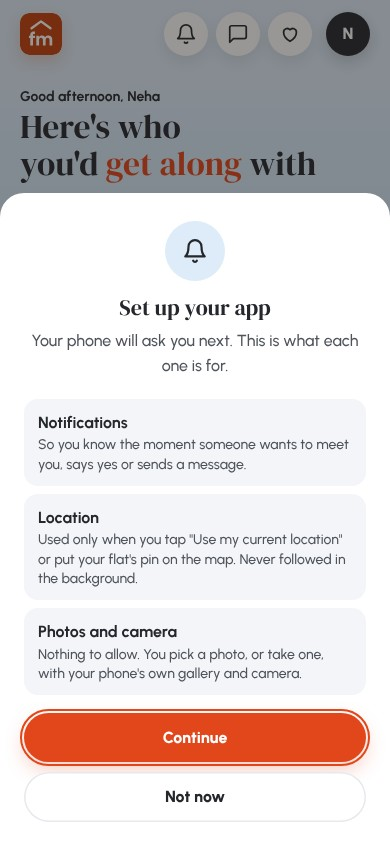
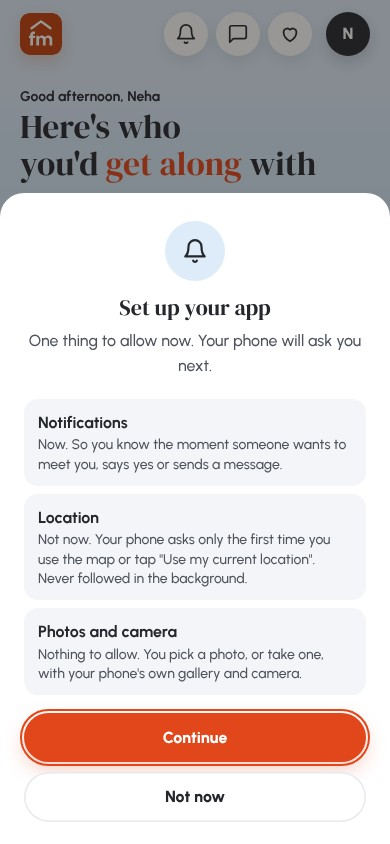
Permissions: way B, Kamal's choice: at first open only notifications are asked; location when the map is first used
Two ways were put to Kamal by King on 22 Nov; he chose the second. So the first-open sheet says what is asked now (notifications), what later (location, the first time the map or "Use my current location" is used, as the app already did) and what never (photos and the camera), and Continue brings up Android's box for notifications only. The Android side no longer has a setup message: it keeps only "Take a photo" in the photo chooser. p36 holds it.

Claude-Session: https://claude.ai/code/session_018BSL97VUyQwpm5qenYsiH6

Changed region(s): [[0.0923, 0.6161, 0.8923, 0.7085], [0.0615, 0.4005, 0.9231, 0.4621], [0.0923, 0.5237, 0.8923, 0.5545]]

diff --git a/flatmates/tests/demo/p36.test.js b/flatmates/tests/demo/p36.test.js
@@ -1,7 +1,7 @@
 // The Android app's first-open step (Kamal, 22 Nov: "Can we build that app automaticaly takes the permission of camera,
-// location and gallery and anything else that is important"). No app can take a permission by itself, so the app asks
-// early, once, and says first what each is for: one sheet, then Android's own boxes (notifications, then location).
-// Photos and the camera need no permission. Demo mode, port 8765, 390 wide; the Android wrapper is stood in for.
+// location and gallery and anything else that is important"). No app can take a permission by itself. Of the two ways
+// put to him Kamal chose the second: at first open ask only for notifications; location the first time the map is used,
+// as before; no camera or gallery permission at all. Demo mode, port 8765, 390 wide; the Android wrapper is stood in for.
 const { chromium } = require('playwright');
 const fs = require('fs'), path = require('path');
 const O = process.argv[2], ok = (c, m) => console.log((c ? 'PASS ' : 'FAIL ') + m), errs = [], U = 'http://localhost:8765/';
@@ -10,11 +10,11 @@ const now = Date.now();
 const seeker = { user:{ adultAt:'2026-11-01T00:00:00.000Z', phone:'9811111111', name:'Neha', role:'seeker', gender:'female', occupation:{ type:'working', what:'Designer' } },
   account:'9811111111', onboarded:{ seeker:true }, giftSeen:true, attrClaimed:true, vibeCardSeen:true, vibe, prefs:{ city:'Bengaluru', areas:[] },
   notified:{}, demoInvites:'done', demoTribeAt:'done', credits:5, giftGiven:true, profilePromoHidden: now + 9e9, avatarAsked:true };
-// The wrapper: it keeps what the page sends, answers "hello" with its status, and on "setup" (or "permission") gives what
-// the person would give (st.say) and answers with the new status, as MainActivity does after Android's boxes.
+// The wrapper: it keeps what the page sends, answers "hello" with its status, and on "permission" gives what the person
+// would give (st.say) and answers with the new status, as MainActivity does after Android's box.
 const wrapper = st => { window.__sent = []; window.FlatmatesNative = { postMessage(s){ const m = JSON.parse(s); if(m.type !== 'bars') window.__sent.push(m.type);   // (the strip's colour, p26, is not this suite's)
-  if(m.type === 'setup'){ st.granted = st.granted || st.say; st.location = st.location || st.say; }
-  if(['hello', 'setup', 'permission'].includes(m.type)) setTimeout(() => this.onmessage && this.onmessage({ data: JSON.stringify(Object.assign({ type:'status', granted: st.granted }, st.old ? {} : { location: st.location, setup: true })) }), 30); } }; };
+  if(m.type === 'permission') st.granted = st.granted || st.say;
+  if(['hello', 'permission'].includes(m.type)) setTimeout(() => this.onmessage && this.onmessage({ data: JSON.stringify({ type:'status', granted: st.granted }) }), 30); } }; };
 async function open(b, st, state, hash){
   const ctx = await b.newContext({ viewport:{ width:390, height:844 } });
   if(st) await ctx.addInitScript(wrapper, st);
@@ -23,52 +23,47 @@ async function open(b, st, state, hash){
   await p.goto(U + '#' + (hash || 'discover')); await p.waitForFunction(() => document.querySelector('#dlgSetup') && document.querySelector('#dlgSetup').open, null, { timeout: 4500 }).catch(() => {});
   await p.waitForTimeout(300); return { ctx, p };
 }
-const sheet = p => p.evaluate(() => ({ open: $('dlgSetup').open, title: $('suTitle').textContent, rows: [...document.querySelectorAll('.su-list li')].filter(x => !x.hidden).map(x => x.querySelector('b').textContent).join(),
+const sheet = p => p.evaluate(() => ({ open: $('dlgSetup').open, title: $('suTitle').textContent, rows: [...document.querySelectorAll('.su-list li')].map(x => x.querySelector('b').textContent + ': ' + x.querySelector('small').textContent.split('.')[0]).join(' | '),
   words: $('dlgSetup').textContent.replace(/\s+/g, ' '), btns: [...$('dlgSetup').querySelectorAll('button')].map(x => x.textContent).join(), sent: (window.__sent || []).join(), asked: !!localStorage.getItem('fm_setup_asked'),
   other: [...document.querySelectorAll('dialog[open]')].map(d => d.id).join() }));
 
 (async () => {
   const b = await chromium.launch();
-  // nothing given yet: the sheet, once someone signed in is on a main screen
-  let { ctx, p } = await open(b, { granted:false, location:false, say:true }, seeker);
+  // notifications not allowed yet: the sheet, once someone signed in is on a main screen
+  let { ctx, p } = await open(b, { granted:false, say:true }, seeker);
   let s = await sheet(p);
-  ok(s.open && s.title === 'Set up your app' && s.rows === 'Notifications,Location,Photos and camera' && s.btns === 'Continue,Not now' && s.other === 'dlgSetup', 'in the Android app, signed in, nothing allowed yet: one sheet names notifications, location, and photos and camera: ' + JSON.stringify({ open: s.open, rows: s.rows, btns: s.btns, other: s.other }));
-  ok(/Your phone will ask you next/.test(s.words) && /only when you tap/.test(s.words) && /Never followed in the background/.test(s.words) && /Nothing to allow/.test(s.words) && !/automatic/i.test(s.words),
-    'it says the phone asks next, that location is read only on a tap and never in the background, and that photos and the camera need nothing');
+  ok(s.open && s.title === 'Set up your app' && s.rows === 'Notifications: Now | Location: Not now | Photos and camera: Nothing to allow' && s.btns === 'Continue,Not now' && s.other === 'dlgSetup',
+    'in the Android app, signed in, notifications off: one sheet says what is asked now (notifications), what later (location) and what never (photos and camera): ' + JSON.stringify({ open: s.open, rows: s.rows, btns: s.btns, other: s.other }));
+  ok(/One thing to allow now/.test(s.words) && /Your phone will ask you next/.test(s.words) && /only the first time you use the map or tap "Use my current location"/.test(s.words) && /Never followed in the background/.test(s.words) && !/automatic/i.test(s.words),
+    'it says the phone asks next, that location is asked only the first time the map is used and never followed in the background');
   ok(s.sent === 'hello' && !s.asked, 'nothing has been asked of Android yet: the page has only said hello');
   await p.screenshot({ path: O + '/p36-setup.png' });
   await p.click('#suAllow'); await p.waitForTimeout(400);
-  s = await sheet(p); const st1 = await p.evaluate(() => ({ on: Notify.nativeOn, loc: Notify.loc }));
-  ok(!s.open && /^hello,setup/.test(s.sent) && s.asked && st1.on === true && st1.loc === true, 'Continue closes the sheet and hands over to Android ("setup"); the answer comes back as the new status: ' + s.sent + ' ' + JSON.stringify(st1));
+  s = await sheet(p); const st1 = await p.evaluate(() => Notify.nativeOn);
+  ok(!s.open && s.sent === 'hello,permission' && s.asked && st1 === true, 'Continue closes the sheet and asks Android for notifications only ("permission", the same ask as the card\'s); the answer comes back as the new status: ' + s.sent + ' ' + st1);
   await p.reload(); await p.waitForTimeout(2500);
   ok(!(await sheet(p)).open, 'it is asked once per phone: not again on the next open');
   await ctx.close();
-  // Not now: nothing is asked of Android, and each permission waits for the moment it is needed
-  ({ ctx, p } = await open(b, { granted:false, location:false, say:true }, seeker));
+  // Not now: nothing is asked of Android, and the card still offers notifications where it did
+  ({ ctx, p } = await open(b, { granted:false, say:true }, seeker));
   await p.click('#suLater'); await p.waitForTimeout(300); s = await sheet(p);
   const card = await p.evaluate(async () => { location.hash = '#requests'; await new Promise(r => setTimeout(r, 1200)); return { ask: !!document.querySelector('.notif-ask [data-notify-on]'), on: Notify.on() }; });
   ok(!s.open && s.sent === 'hello' && s.asked, '"Not now" closes it and asks Android nothing');
-  ok(card.ask || card.on === false, 'after "Not now" the "Stay in the loop" card still offers notifications where it did before: ' + JSON.stringify(card));
+  ok(card.ask && card.on === false, 'after "Not now" the "Stay in the loop" card still offers notifications where it did before: ' + JSON.stringify(card));
   await p.reload(); await p.waitForTimeout(2500);
   ok(!(await sheet(p)).open, '"Not now" is remembered too');
   await ctx.close();
-  // only what is missing is named; nothing missing, no sheet
-  ({ ctx, p } = await open(b, { granted:true, location:false, say:true }, seeker)); s = await sheet(p);
-  ok(s.open && s.rows === 'Location,Photos and camera', 'notifications already allowed: only location is named (with the photos line): ' + s.rows);
+  // nothing to ask, no sheet
+  ({ ctx, p } = await open(b, { granted:true, say:true }, seeker)); s = await sheet(p);
+  ok(!s.open && s.asked && s.sent === 'hello', 'notifications already allowed: no sheet, and it is not looked at again');
   await ctx.close();
-  ({ ctx, p } = await open(b, { granted:true, location:true, say:true }, seeker)); s = await sheet(p);
-  ok(!s.open && s.asked && s.sent === 'hello', 'everything already allowed: no sheet, and it is not looked at again');
-  await ctx.close();
-  // not on an older app, not before sign-in, not on the website, not on top of another sheet
-  ({ ctx, p } = await open(b, { granted:false, old:true }, seeker)); s = await sheet(p);
-  ok(!s.open && !s.asked, 'an app from before this build (its status does not say "setup") is not shown the sheet');
-  await ctx.close();
-  ({ ctx, p } = await open(b, { granted:false, location:false, say:true }, null, '')); s = await sheet(p);
+  // not before sign-in, not on the website, not on top of another sheet
+  ({ ctx, p } = await open(b, { granted:false, say:true }, null, '')); s = await sheet(p);
   ok(!s.open && !s.asked, 'before sign-in: no sheet');
   await ctx.close();
   ({ ctx, p } = await open(b, null, seeker)); s = await sheet(p);
   ok(!s.open && !s.asked && s.sent === '', 'on the website (no Android app around it): no sheet');
-  const over = await p.evaluate(() => { window.FlatmatesNative = { postMessage(){} }; Notify.canSetup = true; Notify.nativeOn = false; Notify.loc = false; $('dlgHelp').showModal(); setupAsk(); const under = $('dlgSetup').open;
+  const over = await p.evaluate(() => { window.FlatmatesNative = { postMessage(){} }; Notify.nativeOn = false; $('dlgHelp').showModal(); setupAsk(); const under = $('dlgSetup').open;
     $('dlgHelp').close(); setupAsk(); return { under, after: $('dlgSetup').open }; });
   ok(!over.under && over.after, 'it never opens on top of another sheet; it comes on the next round instead: ' + JSON.stringify(over));
   await ctx.close();
@@ -76,10 +71,10 @@ const sheet = p => p.evaluate(() => ({ open: $('dlgSetup').open, title: $('suTit
   const A = path.join(__dirname, '../../android/app/src/main'), java = fs.readFileSync(path.join(A, 'java/com/findmeflatmate/app/MainActivity.java'), 'utf8'), man = fs.readFileSync(path.join(A, 'AndroidManifest.xml'), 'utf8'), paths = fs.readFileSync(path.join(A, 'res/xml/share_paths.xml'), 'utf8');
   const perms = (man.match(/uses-permission android:name="([^"]+)"/g) || []).map(x => x.replace(/.*permission\./, '').replace('"', '')).sort().join();
   ok(perms === 'ACCESS_COARSE_LOCATION,ACCESS_FINE_LOCATION,INTERNET,POST_NOTIFICATIONS', 'the app declares internet, notifications and location, and nothing else (no camera, no storage, no contacts): ' + perms);
-  const setup = java.slice(java.indexOf('private void askSetupPermissions()'), java.indexOf('private boolean locationAllowed()'));
-  ok(/case "setup":\s*askSetupPermissions\(\);/.test(java) && (setup.match(/Manifest\.permission\.\w+/g) || []).sort().join() === 'Manifest.permission.ACCESS_COARSE_LOCATION,Manifest.permission.ACCESS_FINE_LOCATION,Manifest.permission.POST_NOTIFICATIONS,Manifest.permission.POST_NOTIFICATIONS'
-    && /requestPermissions\(ask\.toArray\(new String\[0\]\), ASK_SETUP\)/.test(setup) && /requestCode == ASK_NOTIFICATIONS \|\| requestCode == ASK_SETUP\) sendStatus\(\)/.test(java) && /\\"location\\":" \+ locationAllowed\(\)/.test(java) && /\\"setup\\":true/.test(java),
-    '"setup" asks Android for notifications and location only, only those not given yet, and answers the page with what was given');
+  const asks = java.split('requestPermissions(').slice(1).map(x => (x.slice(0, 220).match(/Manifest\.permission\.\w+/g) || []).map(y => y.replace('Manifest.permission.', '')).join('+'));
+  const geo = java.slice(java.indexOf('public void onGeolocationPermissionsShowPrompt'), java.indexOf('public boolean onShowFileChooser'));
+  ok(asks.join() === 'ACCESS_FINE_LOCATION+ACCESS_COARSE_LOCATION,POST_NOTIFICATIONS' && /requestPermissions\(/.test(geo) && !/case "setup"/.test(java) && !/CAMERA/.test(java.replace(/cameraIntent|cameraShot|cameraFile|"camera"|camera app|cache\/camera/g, '')),
+    'Android is asked for two things only, each in its own place: location from the map\'s own prompt (the first time it is used), notifications from the page\'s ask; nothing asks for the camera: ' + asks.join(' | '));
   ok(/MediaStore\.ACTION_IMAGE_CAPTURE/.test(java) && /EXTRA_INITIAL_INTENTS, new Intent\[\] \{ shot \}/.test(java) && /new File\(getCacheDir\(\), "camera"\)/.test(java) && /<cache-path name="camera" path="camera\/" \/>/.test(paths)
     && /android\.media\.action\.IMAGE_CAPTURE/.test(man) && /cameraFile\.length\(\) > 0/.test(java),
     '"Take a photo" is in the photo chooser beside the gallery: the phone\'s camera app writes to the app\'s own cache, and an empty file (a cancelled shot) is never handed to the page');

diff --git a/flatmates/index.html b/flatmates/index.html
@@ -1558,7 +1558,7 @@ dialog.confirm{width:min(400px,calc(100vw - 32px)); height:fit-content; max-heig
 .tribe-fit.solo{background:var(--surface-2); box-shadow:none} .tribe-fit.solo b{color:var(--text)}
 .confirm-body p{color:var(--text-2); margin:8px 0 20px}
 .confirm-body .btn + .btn{margin-top:10px}
-.su-list{list-style:none; margin:0 0 18px; padding:0; display:grid; gap:8px; text-align:left} .su-list li{padding:11px 14px; border-radius:14px; background:var(--surface-2)} .su-list li[hidden]{display:none}
+.su-list{list-style:none; margin:0 0 18px; padding:0; display:grid; gap:8px; text-align:left} .su-list li{padding:11px 14px; border-radius:14px; background:var(--surface-2)}
 .su-list b{display:block; font-size:var(--fs-m)} .su-list small{display:block; color:var(--text-2); font-size:var(--fs-s); line-height:1.4}
 @media (max-width:640px){
   dialog.confirm{width:100vw; max-width:100vw; height:fit-content; max-height:100dvh; margin:auto 0 0; border-radius:24px 24px 0 0;
@@ -3722,9 +3722,9 @@ a:not([class]), .linkbtn, .pk-more, .lg-sms, .otp-more .linkbtn, #otpBack{color:
 
 <dialog id="dlgSetup" class="confirm" aria-labelledby="suTitle"><div class="confirm-body">
   <span class="confirm-ic" style="background:var(--p-blue-a);color:var(--ink)"><svg class="ic" width="26" height="26" viewBox="0 0 24 24" fill="none" stroke="currentColor" stroke-width="2" stroke-linecap="round" stroke-linejoin="round" aria-hidden="true"><path d="M6 8a6 6 0 0112 0c0 7 3 9 3 9H3s3-2 3-9M10.3 21a1.9 1.9 0 003.4 0"/></svg></span>
-  <h2 id="suTitle">Set up your app</h2><p>Your phone will ask you next. This is what each one is for.</p>
-  <ul class="su-list"><li id="suNotif"><b>Notifications</b><small>So you know the moment someone wants to meet you, says yes or sends a message.</small></li>
-    <li id="suLoc"><b>Location</b><small>Used only when you tap "Use my current location" or put your flat's pin on the map. Never followed in the background.</small></li>
+  <h2 id="suTitle">Set up your app</h2><p>One thing to allow now. Your phone will ask you next.</p>
+  <ul class="su-list"><li><b>Notifications</b><small>Now. So you know the moment someone wants to meet you, says yes or sends a message.</small></li>
+    <li><b>Location</b><small>Not now. Your phone asks only the first time you use the map or tap "Use my current location". Never followed in the background.</small></li>
     <li><b>Photos and camera</b><small>Nothing to allow. You pick a photo, or take one, with your phone's own gallery and camera.</small></li></ul>
   <button class="btn btn-primary btn-block" type="button" id="suAllow">Continue</button>
   <button class="btn btn-ghost btn-block" type="button" id="suLater">Not now</button>
@@ -7118,29 +7118,29 @@ async function savePushToken(){
 if(Notify.native()){
   FlatmatesNative.onmessage = e => {
     let m; try{ m = JSON.parse(e.data); }catch(err){ return; }
-    if(m.type === "status"){ Notify.nativeOn = Boolean(m.granted); Notify.loc = m.location === undefined ? null : Boolean(m.location); Notify.canSetup = Boolean(m.setup);
-      if(m.build) checkAppUpdate(m.build); setupAsk(); }
+    if(m.type === "status"){ Notify.nativeOn = Boolean(m.granted); if(m.build) checkAppUpdate(m.build); setupAsk(); }
     if(m.type === "token"){ pushToken = m.token; savePushToken(); }
     if(m.type === "open" && state.user){ if(api.fresh) api.fresh(); go(m.view || "requests"); }   // a tapped notification: the screen it opens reads anew
   };
   FlatmatesNative.postMessage(JSON.stringify({ type:"hello" }));
 }
-// The Android app's first-open step (Kamal, 22 Nov: "app automaticaly takes the permission of camera, location and gallery
-// and anything else that is important"). No app can take a permission by itself: Android shows its own box and the
-// person answers it. What the app can do is ask early, once, and say first what each is for. So the first time someone
-// signed in reaches a main screen in the Android app, one sheet names them; Continue brings up Android's boxes one after
-// the other (notifications, then location; MainActivity "setup"). Photos need none: Android's own picker and camera app
-// do the work, and "Take a photo" is in the chooser. Once per phone; "Not now" leaves each to the moment it is needed,
-// as before (Parties and the maps ask for location, the "Stay in the loop" card for notifications).
+// The Android app's first-open step (Kamal, 22 Nov: "Can we build that app automaticaly takes the permission of camera,
+// location and gallery and anything else that is important"). No app can take a permission by itself: Android shows its
+// own box and the person answers it. Of the two ways put to him, Kamal chose the second: at first open ask only for
+// notifications; ask for location the first time someone uses the map or "Use my current location", as the app already
+// did (a "no" given before someone knows why can stop Android asking again); no camera or gallery permission at all
+// (Android's own picker and camera app do that work, and "Take a photo" is in the chooser). So the first time someone
+// signed in reaches a main screen in the Android app with notifications off, one sheet says what is asked now, what
+// later and what never; Continue brings up Android's box for notifications (the same ask as the "Stay in the loop"
+// card). Once per phone; "Not now" leaves it to that card.
 const SETUP_KEY = "fm_setup_asked";
 function setupAsk(){
-  if(!Notify.native() || !Notify.canSetup || !state.user || !state.onboarded[roleKey()] || readLS(SETUP_KEY)) return;
-  if(Notify.nativeOn === true && Notify.loc === true){ writeLS(SETUP_KEY, Date.now()); return; }   // nothing left to ask
+  if(!Notify.native() || Notify.nativeOn === null || !state.user || !state.onboarded[roleKey()] || readLS(SETUP_KEY)) return;
+  if(Notify.nativeOn === true){ writeLS(SETUP_KEY, Date.now()); return; }   // already allowed: nothing to ask
   if(document.querySelector("dialog[open]")) return;   // not on top of something else: the next round asks
-  $("suNotif").hidden = Notify.nativeOn === true; $("suLoc").hidden = Notify.loc === true;
   $("dlgSetup").showModal();
 }
-$("suAllow").onclick = () => { writeLS(SETUP_KEY, Date.now()); $("dlgSetup").close(); FlatmatesNative.postMessage(JSON.stringify({ type:"setup" })); };
+$("suAllow").onclick = () => { writeLS(SETUP_KEY, Date.now()); $("dlgSetup").close(); Notify.ask(); };
 $("suLater").onclick = () => { writeLS(SETUP_KEY, Date.now()); $("dlgSetup").close(); };
 // A friendly ask (Kamal, 15 Nov): what you'll get, in three lines, with "Not now" (hidden for a week).
 const notifyCard = text => Notify.supported() && !Notify.on() && !(state.notifLater && Date.now() - state.notifLater < 7 * 864e5)

diff --git a/flatmates/android/app/src/main/java/com/findmeflatmate/app/MainActivity.java b/flatmates/android/app/src/main/java/com/findmeflatmate/app/MainActivity.java
@@ -51,7 +51,6 @@ public class MainActivity extends Activity {
     private static final int PICK_PHOTOS = 1;
     private static final int ASK_NOTIFICATIONS = 2;
     private static final int ASK_LOCATION = 3;
-    private static final int ASK_SETUP = 4;
     static final String EXTRA_OPEN = "open";
 
     private WebView web;
@@ -104,7 +103,8 @@ public class MainActivity extends Activity {
             @Override
             public void onGeolocationPermissionsShowPrompt(String origin, GeolocationPermissions.Callback callback) {
                 if (!origin.startsWith("https://" + HOST)) { callback.invoke(origin, false, false); return; }
-                if (locationAllowed()) {
+                if (checkSelfPermission(Manifest.permission.ACCESS_FINE_LOCATION) == PackageManager.PERMISSION_GRANTED
+                        || checkSelfPermission(Manifest.permission.ACCESS_COARSE_LOCATION) == PackageManager.PERMISSION_GRANTED) {
                     callback.invoke(origin, true, false);
                     return;
                 }
@@ -149,7 +149,7 @@ public class MainActivity extends Activity {
 
     /**
      * Exposes `FlatmatesNative` to the app's own pages only (not to embedded maps).
-     * Messages are JSON: {type: hello | permission | setup | notify | shareImage | shareFile | bars, ...}.
+     * Messages are JSON: {type: hello | permission | notify | shareImage | shareFile | bars, ...}.
      */
     private void addNativeBridge() {
         if (!WebViewFeature.isFeatureSupported(WebViewFeature.WEB_MESSAGE_LISTENER)) return;
@@ -167,9 +167,6 @@ public class MainActivity extends Activity {
                                 break;
                             case "permission":
                                 askNotificationPermission();
-                                break;
-                            case "setup":
-                                askSetupPermissions();
                                 break;
                             case "notify":
                                 Notifications.show(this, m.optString("title"), m.optString("body"), m.optString("open", "requests"));
@@ -257,33 +254,6 @@ public class MainActivity extends Activity {
     }
 
     /**
-     * The first-open step (Kamal, 22 Nov 2026). The page has said what each permission is for; this brings up
-     * Android's own boxes for the ones not given yet, one after the other. Nothing is taken without the
-     * person's tap: no app can do that. Photos need no permission (Android's picker and camera app).
-     */
-    private void askSetupPermissions() {
-        java.util.ArrayList<String> ask = new java.util.ArrayList<>();
-        if (Build.VERSION.SDK_INT >= 33 && checkSelfPermission(Manifest.permission.POST_NOTIFICATIONS)
-                != PackageManager.PERMISSION_GRANTED) {
-            ask.add(Manifest.permission.POST_NOTIFICATIONS);
-        }
-        if (!locationAllowed()) {
-            ask.add(Manifest.permission.ACCESS_FINE_LOCATION);
-            ask.add(Manifest.permission.ACCESS_COARSE_LOCATION);
-        }
-        if (ask.isEmpty()) {
-            sendStatus();
-            return;
-        }
-        requestPermissions(ask.toArray(new String[0]), ASK_SETUP);
-    }
-
-    private boolean locationAllowed() {
-        return checkSelfPermission(Manifest.permission.ACCESS_FINE_LOCATION) == PackageManager.PERMISSION_GRANTED
-                || checkSelfPermission(Manifest.permission.ACCESS_COARSE_LOCATION) == PackageManager.PERMISSION_GRANTED;
-    }
-
-    /**
      * "Take a photo" in the photo chooser (Kamal, 22 Nov 2026). The phone's own camera app takes the picture and
      * writes it to a file in this app's cache (cache/camera, handed over through the FileProvider), so the app
      * itself holds no camera permission and nothing is asked. Returns null where there is no camera app.
@@ -315,7 +285,7 @@ public class MainActivity extends Activity {
     @Override
     public void onRequestPermissionsResult(int requestCode, String[] permissions, int[] results) {
         super.onRequestPermissionsResult(requestCode, permissions, results);
-        if (requestCode == ASK_NOTIFICATIONS || requestCode == ASK_SETUP) sendStatus();
+        if (requestCode == ASK_NOTIFICATIONS) sendStatus();
         if (requestCode == ASK_LOCATION && pendingGeo != null) {
             boolean granted = false;
             for (int r : results) granted |= r == PackageManager.PERMISSION_GRANTED;
@@ -325,8 +295,7 @@ public class MainActivity extends Activity {
     }
 
     private void sendStatus() {
-        post("{\"type\":\"status\",\"granted\":" + Notifications.allowed(this) + ",\"location\":" + locationAllowed()
-                + ",\"setup\":true,\"build\":" + buildNumber() + "}");
+        post("{\"type\":\"status\",\"granted\":" + Notifications.allowed(this) + ",\"build\":" + buildNumber() + "}");
     }
 
     /** This app's build number (the CI run number), so the page can tell when a newer app is out. */

diff --git a/flatmates/README.md b/flatmates/README.md
@@ -1662,23 +1662,25 @@ pages. Only apps from this build on can check, so phones on an older build need 
 
 **Permissions** (Kamal, 22 Nov: "Can we build that app automaticaly takes the permission of camera, location and
 gallery and anything else that is important"). No Android app can take a permission by itself: the phone shows its
-own box and the person answers it. So the app asks early, once, and says first what each one is for.
-- **The first-open step:** the first time someone signed in reaches a main screen in the Android app, one sheet,
-  "Set up your app", names what the phone will ask and why. **Continue** brings up Android's boxes one after the
-  other: notifications, then location (the page sends `setup`; `MainActivity` asks only for the ones not given yet
-  and answers with the new status). Only what is missing is named. Once per phone (`fm_setup_asked`). It never
-  opens over another sheet, and not at all when both are already given, before sign-in, in an app from before this
-  build, or on the website.
-- **Not now** leaves each to the moment it is needed, as before: the "Stay in the loop" card for notifications;
-  "Use my current location" and the map's locate button for location.
-- **Location** is read only on those taps. Nothing follows it in the background (the privacy page says the same).
+own box and the person answers it. Two ways were put to Kamal (22 Nov, by King): A, at first open ask for
+notifications and then location; B, at first open ask only for notifications, and ask for location the first time
+someone uses the map or parties near them; no camera or gallery permission in either. **Kamal chose B.**
+- **The first-open step:** the first time someone signed in reaches a main screen in the Android app with
+  notifications off, one sheet, "Set up your app", says what is asked now (notifications), what later (location)
+  and what never (photos and the camera). **Continue** brings up Android's box for notifications (the same ask as
+  the "Stay in the loop" card). Once per phone (`fm_setup_asked`). It never opens over another sheet, and not at
+  all when notifications are already allowed, before sign-in, or on the website.
+- **Not now** asks Android nothing; the "Stay in the loop" card still offers notifications where it did before.
+- **Location** is asked the first time someone taps "Use my current location" or the map's locate button, as
+  before, and read only on those taps. A "no" given before someone knows why can stop Android asking again, which
+  is why it is not asked at first open. Nothing follows it in the background (the privacy page says the same).
 - **Photos and the camera need no permission.** Choosing photos goes through Android's own picker. **Take a
   photo** is in the same chooser (22 Nov): the phone's own camera app takes it and writes it to the app's cache
   (`cache/camera`, handed over through the FileProvider). The app does not declare the camera permission, so
   nothing is asked.
 - **What the app declares:** internet, notifications, location (approximate and precise). Nothing else.
-- Checks: `p36` (the sheet with a stand-in for the Android side, and the Android files as written; the Java is
-  compiled by CI).
+- Checks: `p36` (the sheet with a stand-in for the Android side, and the Android files as written: only
+  notifications are asked from the sheet, location only from the map's own prompt; the Java is compiled by CI).
 
 How it's built: `android/` is a small native app that shows the web app full-screen. The build
 copies `index.html`, `privacy.html`, `manifest.webmanifest`, `icons/` and `vendor/` into the APK, so you only ever
